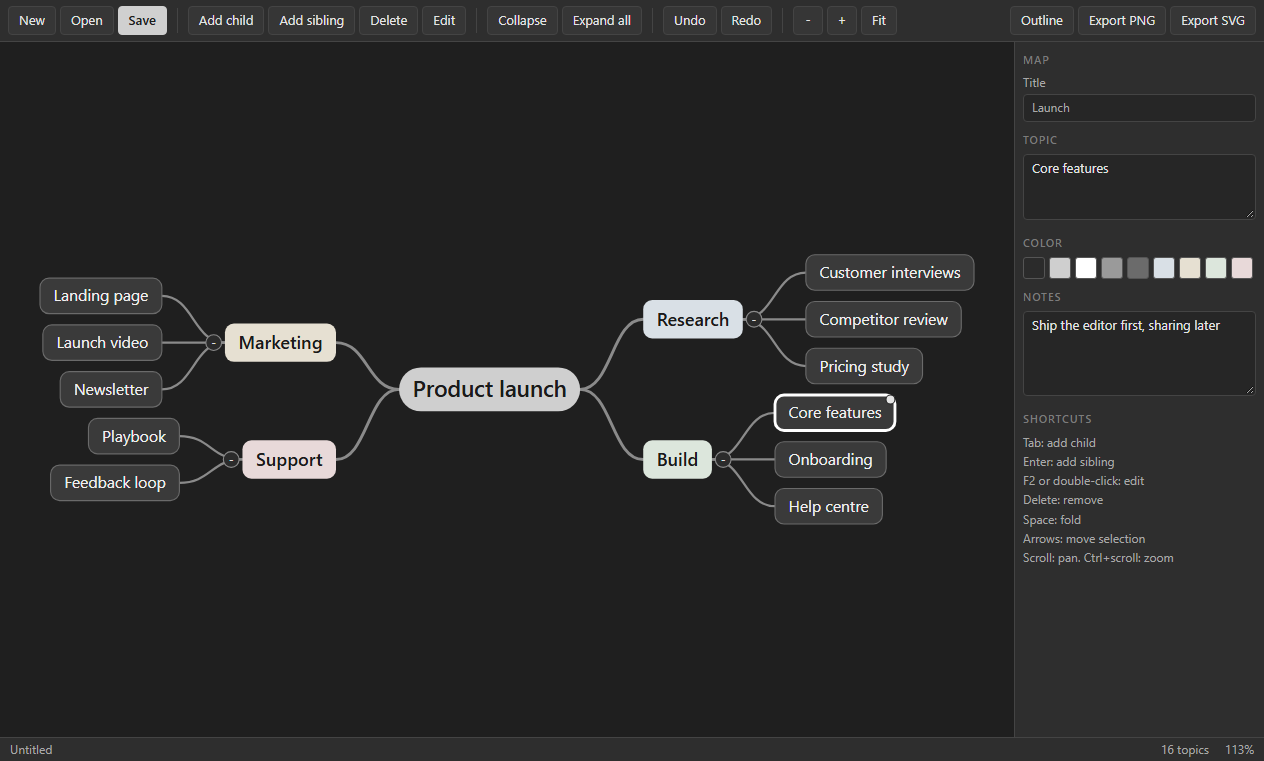
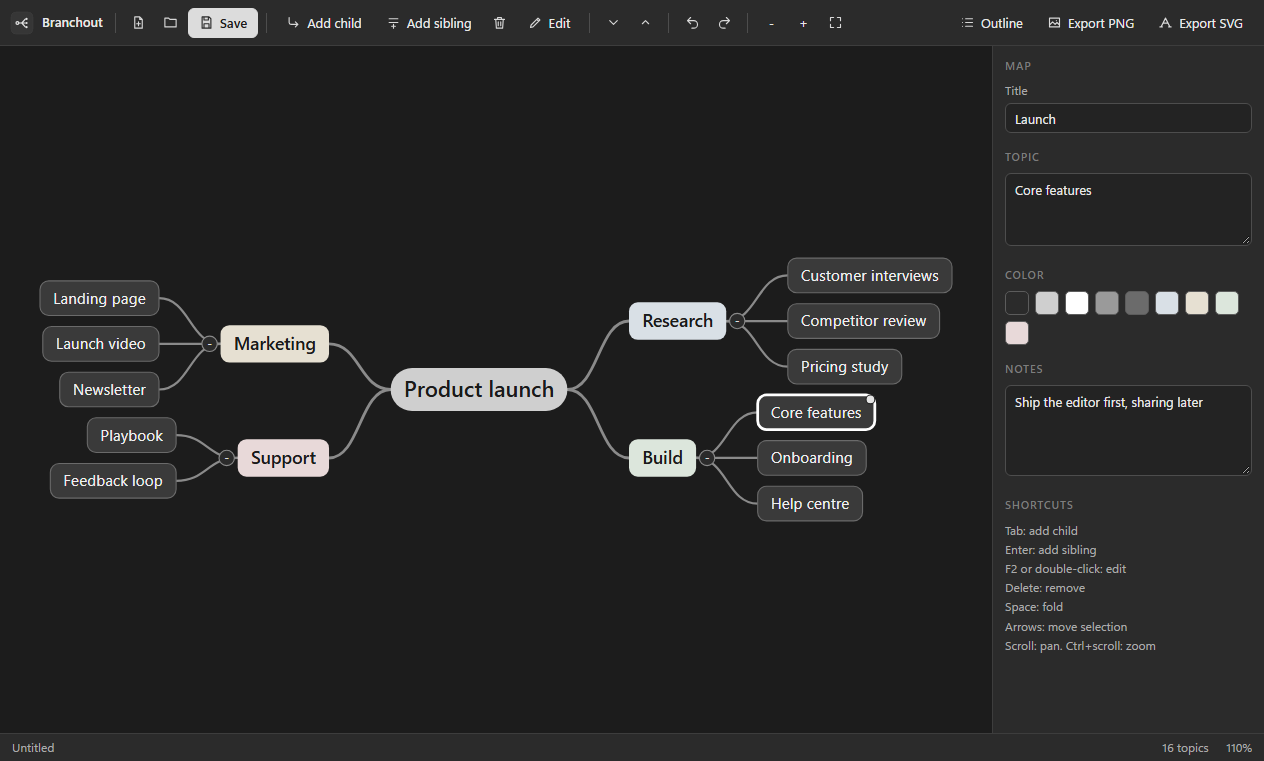
Branchout 1.0.2: refreshed interface
Refreshed interface: line icons on every toolbar button, the app mark in the top bar, consistent control sizes and spacing, tidier side panels, and a toolbar that adapts to smaller windows. Also includes layout fixes and a fuller guide on the project page.

diff --git a/renderer/lookout.css b/renderer/lookout.css
@@ -1,62 +1,119 @@
-/* Lookout gray UI kit: flat, no glow, no gradients, no hue. */
+/* Lookout gray UI kit v2: flat, calm, no hue. Shared by every Lookout app. */
 :root{
-  --bg:#262626; --bg-2:#2e2e2e; --bg-3:#363636; --line:#444; --line-2:#555;
-  --text:#e4e4e4; --text-2:#a8a8a8; --text-3:#7c7c7c;
-  --accent:#d0d0d0; --accent-ink:#1c1c1c; --focus:#9a9a9a;
-  --radius:4px; --font:"Segoe UI",system-ui,-apple-system,sans-serif; --mono:Consolas,"Cascadia Mono",monospace;
+  --bg:#232323; --bg-2:#2b2b2b; --bg-3:#333333; --bg-4:#3b3b3b; --stage:#1c1c1c;
+  --line:#3d3d3d; --line-2:#4d4d4d; --line-3:#5c5c5c;
+  --text:#e8e8e8; --text-2:#ababab; --text-3:#7d7d7d;
+  --accent:#dcdcdc; --accent-ink:#1b1b1b; --focus:#a0a0a0;
+  --radius:6px; --h:30px;
+  --font:"Segoe UI Variable Text","Segoe UI",system-ui,-apple-system,sans-serif; --mono:Consolas,"Cascadia Mono",monospace;
 }
 *{box-sizing:border-box;margin:0;padding:0}
 html,body{height:100%;background:var(--bg);color:var(--text);font:13px/1.45 var(--font);overflow:hidden;user-select:none;-webkit-font-smoothing:antialiased}
 button,input,select,textarea{font:inherit;color:inherit}
 .app{display:grid;grid-template-rows:auto 1fr auto;height:100vh}
-.toolbar{display:flex;align-items:center;gap:4px;padding:6px 8px;background:var(--bg-2);border-bottom:1px solid var(--line);flex-wrap:wrap}
-.toolbar .sep{width:1px;align-self:stretch;background:var(--line);margin:2px 6px}
-.toolbar .grow{flex:1}
-.btn{background:var(--bg-3);border:1px solid var(--line);border-radius:var(--radius);padding:4px 10px;cursor:pointer;white-space:nowrap}
-.btn:hover{background:#404040;border-color:var(--line-2)}
+
+/* ---------- toolbar ---------- */
+.toolbar{display:flex;align-items:center;gap:2px;padding:7px 10px;min-height:46px;background:var(--bg-2);border-bottom:1px solid var(--line);flex-wrap:nowrap;overflow-x:auto;overflow-y:hidden;scrollbar-width:none}
+.toolbar::-webkit-scrollbar{height:0}
+.toolbar>*{flex-shrink:0}
+.toolbar .sep{width:1px;height:20px;align-self:center;background:var(--line-2);margin:0 6px}
+.toolbar .grow{flex:1 1 auto;min-width:8px}
+.toolbar input[type=text],.toolbar input[type=search]{width:170px}
+.brand{display:flex;align-items:center;gap:8px;padding-right:6px;margin-right:4px;font-weight:600;font-size:13px;color:var(--text)}
+.brand img{width:24px;height:24px;border-radius:6px;display:block}
+.brand+.sep{margin-left:0}
+
+/* ---------- buttons ---------- */
+.btn{display:inline-flex;align-items:center;justify-content:center;gap:6px;height:var(--h);padding:0 10px;background:var(--bg-3);border:1px solid var(--line);border-radius:var(--radius);cursor:pointer;white-space:nowrap;line-height:1;transition:background .08s,border-color .08s}
+.btn:hover{background:var(--bg-4);border-color:var(--line-2)}
 .btn:active{background:#2a2a2a}
-.btn:focus-visible,input:focus-visible,select:focus-visible,textarea:focus-visible,[tabindex]:focus-visible{outline:1px solid var(--focus);outline-offset:1px}
+.btn:focus-visible,input:focus-visible,select:focus-visible,textarea:focus-visible,[tabindex]:focus-visible{outline:2px solid var(--focus);outline-offset:1px}
 .btn.primary{background:var(--accent);color:var(--accent-ink);border-color:var(--accent);font-weight:600}
-.btn.primary:hover{background:#e0e0e0}
-.btn.on{background:#4a4a4a;border-color:var(--line-2)}
-.btn[disabled]{opacity:.4;pointer-events:none}
-.btn.icon{padding:4px 8px;min-width:30px;text-align:center}
-input[type=text],input[type=number],input[type=search],select,textarea{background:var(--bg);border:1px solid var(--line);border-radius:var(--radius);padding:4px 8px;user-select:text}
-input[type=range]{accent-color:#bdbdbd}
-input[type=color]{border:1px solid var(--line);background:var(--bg);width:28px;height:24px;padding:1px;border-radius:var(--radius)}
-label.field{display:flex;flex-direction:column;gap:3px;color:var(--text-2);font-size:12px}
-.main{display:flex;min-height:0}
-.sidebar{width:220px;background:var(--bg-2);border-right:1px solid var(--line);overflow:auto;padding:8px;flex-shrink:0}
-.sidebar.right{border-right:0;border-left:1px solid var(--line);width:250px}
-.sidebar h3,.panel-title{font-size:11px;text-transform:uppercase;letter-spacing:.08em;color:var(--text-3);margin:10px 0 6px;font-weight:600}
+.btn.primary:hover{background:#ececec;border-color:#ececec}
+.btn.on{background:#4a4a4a;border-color:var(--line-3);box-shadow:inset 0 0 0 1px #6a6a6a}
+.btn[disabled]{opacity:.38;pointer-events:none}
+.btn.icon{padding:0;width:var(--h);min-width:var(--h)}
+.btn .ic{width:15px;height:15px;flex-shrink:0;display:block;opacity:.92}
+.toolbar .btn:not(.primary):not(.on){background:transparent;border-color:transparent}
+.toolbar .btn:not(.primary):not(.on):hover{background:var(--bg-4);border-color:var(--line-2)}
+
+.toolbar.c1 .btn.minor:not(.primary):has(> svg.ic),.toolbar.c2 .btn:not(.primary):has(> svg.ic),.toolbar.c3 .btn:has(> svg.ic){font-size:0;gap:0;width:var(--h);padding:0}
+.toolbar.c2 .brand span{display:none}
+.toolbar.c2 input[type=text],.toolbar.c2 input[type=search]{width:120px}
+
+/* ---------- fields ---------- */
+input[type=text],input[type=number],input[type=search],input[type=date],select,textarea{background:var(--bg);border:1px solid var(--line-2);border-radius:var(--radius);padding:0 9px;height:var(--h);user-select:text;min-width:0}
+textarea{height:auto;padding:7px 9px;resize:vertical;line-height:1.45}
+select{padding-right:6px;cursor:pointer}
+input:hover,select:hover,textarea:hover{border-color:var(--line-3)}
+input[type=range]{accent-color:#c8c8c8;height:var(--h)}
+input[type=checkbox]{accent-color:#c8c8c8;width:15px;height:15px;cursor:pointer}
+input[type=color]{border:1px solid var(--line-2);background:var(--bg);width:30px;height:var(--h);padding:2px;border-radius:var(--radius)}
+label.field{display:flex;flex-direction:column;gap:4px;color:var(--text-2);font-size:12px}
+label.field>input,label.field>select,label.field>textarea{width:100%;color:var(--text);font-size:13px}
+
+/* ---------- layout ---------- */
+.main{display:flex;min-height:0;min-width:0}
+.sidebar{width:228px;background:var(--bg-2);border-right:1px solid var(--line);overflow:auto;padding:10px 12px 14px;flex-shrink:0}
+.sidebar.right{border-right:0;border-left:1px solid var(--line);width:272px}
+.sidebar h3,.panel-title{font-size:11px;text-transform:uppercase;letter-spacing:.08em;color:var(--text-3);margin:16px 0 8px;font-weight:600}
 .sidebar h3:first-child{margin-top:2px}
-.stage{flex:1;min-width:0;min-height:0;position:relative;background:#1f1f1f;overflow:auto}
-.status{display:flex;gap:16px;align-items:center;padding:3px 10px;background:var(--bg-2);border-top:1px solid var(--line);color:var(--text-2);font-size:12px}
+.sidebar input[type=text],.sidebar input[type=search],.sidebar select,.sidebar textarea{width:100%}
+.sidebar .row{flex-wrap:wrap}
+.sidebar .row>.btn{flex:1 1 auto}
+.sidebar .row>label.field{flex:1 1 0;min-width:0}
+.sidebar label.field{margin-bottom:10px}
+.sidebar .btn{width:auto}
+.sidebar>.btn{width:100%;margin-bottom:6px}
+.stage{flex:1;min-width:0;min-height:0;position:relative;background:var(--stage);overflow:auto}
+.status{display:flex;gap:18px;align-items:center;height:28px;padding:0 12px;background:var(--bg-2);border-top:1px solid var(--line);color:var(--text-2);font-size:12px;white-space:nowrap;overflow:hidden}
 .status .grow{flex:1}
 .list{display:flex;flex-direction:column;gap:2px}
-.list .item{padding:5px 8px;border-radius:var(--radius);cursor:pointer;border:1px solid transparent;display:flex;gap:6px;align-items:center}
+.list .item{padding:6px 8px;border-radius:var(--radius);cursor:pointer;border:1px solid transparent;display:flex;gap:6px;align-items:center;min-height:30px}
 .list .item:hover{background:var(--bg-3)}
-.list .item.sel{background:#444;border-color:var(--line-2)}
+.list .item.sel{background:var(--bg-4);border-color:var(--line-2)}
 .row{display:flex;gap:6px;align-items:center}
+.grow{flex:1 1 auto;min-width:0}
+.brow{display:grid;grid-template-columns:1fr 1fr;gap:6px;margin-bottom:6px}
+.brow>.btn{justify-content:flex-start}
+.frow{display:flex;align-items:center;gap:8px;margin-bottom:8px;color:var(--text-2)}
+.frow>input[type=text],.frow>input[type=number]{flex:1;color:var(--text)}
+.frow>span:first-child{min-width:44px}
+.frow>select{flex:1;min-width:0}
+.sidebar input[type=range]{width:100%}
+.sidebar .swatches{margin-bottom:10px}
+.list .item .btn{height:24px!important;width:26px!important;padding:0!important;font-size:0!important;gap:0;background:transparent;border-color:transparent;opacity:.55}
+.list .item:hover .btn,.list .item.sel .btn{opacity:1}
+.list .item .btn:hover{background:var(--bg-4);border-color:var(--line-2)}
 .col{display:flex;flex-direction:column;gap:6px}
 .muted{color:var(--text-2)}
-.empty{position:absolute;inset:0;display:flex;flex-direction:column;align-items:center;justify-content:center;gap:10px;color:var(--text-3);text-align:center;padding:20px}
-.empty .big{font-size:18px;color:var(--text-2)}
-.modal-back{position:fixed;inset:0;background:rgba(0,0,0,.55);display:flex;align-items:center;justify-content:center;z-index:50}
-.modal{background:var(--bg-2);border:1px solid var(--line-2);border-radius:6px;min-width:340px;max-width:80vw;max-height:85vh;overflow:auto;padding:16px;display:flex;flex-direction:column;gap:12px}
-.modal h2{font-size:15px;font-weight:600}
-.toast{position:fixed;left:50%;bottom:34px;transform:translateX(-50%);background:var(--bg-3);border:1px solid var(--line-2);padding:7px 14px;border-radius:var(--radius);z-index:60}
-.progress{height:6px;background:var(--bg);border:1px solid var(--line);border-radius:3px;overflow:hidden}
-.progress>i{display:block;height:100%;background:var(--accent);width:0}
-table.grid{border-collapse:collapse;width:100%}
-table.grid th,table.grid td{border:1px solid var(--line);padding:4px 8px;text-align:left}
-table.grid th{background:var(--bg-2);color:var(--text-2);font-weight:600}
-::-webkit-scrollbar{width:11px;height:11px}
-::-webkit-scrollbar-thumb{background:#4a4a4a;border:2px solid var(--bg);border-radius:6px}
-::-webkit-scrollbar-track{background:var(--bg)}
-.swatches{display:flex;flex-wrap:wrap;gap:4px}
-.swatches button{width:22px;height:22px;border:1px solid var(--line-2);border-radius:3px;cursor:pointer;padding:0}
-.swatches button.on{outline:2px solid var(--accent);outline-offset:1px}
-.progress>div{display:block;height:100%;background:var(--accent)}
-table.grid tr.sel td{background:#3a3a3a}
+.empty{position:absolute;inset:0;display:flex;flex-direction:column;align-items:center;justify-content:center;gap:12px;color:var(--text-3);text-align:center;padding:24px}
+.empty .big{font-size:18px;color:var(--text-2);font-weight:600}
+
+/* ---------- overlays ---------- */
+.modal-back{position:fixed;inset:0;background:rgba(0,0,0,.6);display:flex;align-items:center;justify-content:center;z-index:50}
+.modal{background:var(--bg-2);border:1px solid var(--line-2);border-radius:10px;min-width:360px;max-width:80vw;max-height:85vh;overflow:auto;padding:20px;display:flex;flex-direction:column;gap:14px;box-shadow:0 18px 50px rgba(0,0,0,.5)}
+.modal h2{font-size:16px;font-weight:600}
+.toast{position:fixed;left:50%;bottom:40px;transform:translateX(-50%);background:var(--bg-4);border:1px solid var(--line-3);padding:9px 16px;border-radius:8px;z-index:60;box-shadow:0 8px 24px rgba(0,0,0,.4)}
+.progress{height:6px;background:var(--bg);border:1px solid var(--line);border-radius:4px;overflow:hidden}
+.progress>i,.progress>div{display:block;height:100%;background:var(--accent);width:0}
+
+/* ---------- tables ---------- */
+table.grid{border-collapse:separate;border-spacing:0;width:100%}
+table.grid th,table.grid td{border-bottom:1px solid var(--line);padding:0 12px;height:38px;text-align:left;vertical-align:middle}
+table.grid th{background:var(--bg-2);color:var(--text-2);font-weight:600;font-size:12px;position:sticky;top:0;z-index:1;height:34px}
+table.grid tbody tr:hover td{background:#262626}
+table.grid tr.sel td{background:#353535}
 table.grid tbody tr{cursor:default}
+table.grid td .btn{height:26px;margin-left:8px;vertical-align:middle}
+table.grid td{white-space:nowrap}
+
+/* ---------- misc ---------- */
+::-webkit-scrollbar{width:11px;height:11px}
+::-webkit-scrollbar-thumb{background:#474747;border:3px solid transparent;background-clip:padding-box;border-radius:8px}
+::-webkit-scrollbar-thumb:hover{background:#5a5a5a;background-clip:padding-box;border:3px solid transparent}
+::-webkit-scrollbar-track,::-webkit-scrollbar-corner{background:transparent}
+.swatches{display:flex;flex-wrap:wrap;gap:6px}
+.swatches button{width:24px;height:24px;border:1px solid var(--line-3);border-radius:5px;cursor:pointer;padding:0}
+.swatches button.on{outline:2px solid var(--accent);outline-offset:2px}
+kbd{font-family:var(--mono);font-size:11px;background:var(--bg-3);border:1px solid var(--line-2);border-bottom-width:2px;border-radius:4px;padding:0 5px}

diff --git a/renderer/kit.js b/renderer/kit.js
@@ -1,0 +1,137 @@
+// Lookout UI kit: adds the app mark to the toolbar and monochrome line icons to buttons.
+// Purely visual. Buttons keep their text, so nothing else changes.
+(function () {
+  'use strict';
+  const NS = 'http://www.w3.org/2000/svg';
+  const P = {
+    plus: 'M12 5v14M5 12h14',
+    file: 'M14 3H6v18h12V7zM14 3v4h4M12 11v6M9 14h6',
+    folder: 'M3 7V5h6l2 2h10v12H3z',
+    save: 'M5 3h11l3 3v15H5zM8 3v5h7V3M8 21v-7h8v7',
+    saveas: 'M5 3h11l3 3v6M5 3v18h7M8 3v5h7V3M15 21l6-6-2-2-6 6v2z',
+    undo: 'M9 14L4 9l5-5M4 9h10a6 6 0 010 12h-3',
+    redo: 'M15 14l5-5-5-5M20 9H10a6 6 0 000 12h3',
+    trash: 'M4 7h16M10 11v6M14 11v6M6 7l1 14h10l1-14M9 7V4h6v3',
+    copy: 'M9 9h11v11H9zM5 15H4V4h11v1',
+    paste: 'M9 4h6v3H9zM8 5H5v16h14V5h-3',
+    dup: 'M8 8h12v12H8zM4 16V4h12M14 11v6M11 14h6',
+    download: 'M12 4v11M7 10l5 5 5-5M5 20h14',
+    fit: 'M4 9V4h5M15 4h5v5M20 15v5h-5M9 20H4v-5',
+    play: 'M7 4l13 8-13 8z',
+    stop: 'M6 6h12v12H6z',
+    pause: 'M7 5h3v14H7zM14 5h3v14h-3z',
+    rec: 'M12 5a7 7 0 100 14 7 7 0 000-14z',
+    scissors: 'M6 9a3 3 0 100-6 3 3 0 000 6zM6 21a3 3 0 100-6 3 3 0 000 6zM8.2 7.8L20 19M8.2 16.2L20 5',
+    pointer: 'M5 3l14 7-6 2-2 6z',
+    hand: 'M8 13V6a1.5 1.5 0 013 0v5M11 11V4.5a1.5 1.5 0 013 0V11M14 11V6a1.5 1.5 0 013 0v8a7 7 0 01-7 7 6 6 0 01-5-3l-2.5-4.5a1.5 1.5 0 012.6-1.5L8 15',
+    connector: 'M5 19L19 5M13 5h6v6',
+    frame: 'M7 3v18M17 3v18M3 7h18M3 17h18',
+    rect: 'M4 6h16v12H4z',
+    ellipse: 'M12 5c4.4 0 8 3.1 8 7s-3.6 7-8 7-8-3.1-8-7 3.6-7 8-7z',
+    line: 'M5 19L19 5',
+    text: 'M5 6V4h14v2M12 4v16M9 20h6',
+    highlight: 'M14 4l6 6-8 8H6v-6zM4 21h16',
+    pen: 'M4 20l4-1 11-11-3-3L5 16zM14 7l3 3',
+    redact: 'M4 8h16v8H4z',
+    sign: 'M3 17c3-6 5-9 7-9 3 0-2 9 1 9 2 0 3-3 5-3s1 3 5 3M3 21h18',
+    eraser: 'M8 20l-4-4 10-10 6 6-10 8zM12 20h8',
+    search: 'M11 4a7 7 0 100 14 7 7 0 000-14zM16 16l5 5',
+    list: 'M9 6h11M9 12h11M9 18h11M4 6h.01M4 12h.01M4 18h.01',
+    child: 'M5 4v8a3 3 0 003 3h11M15 11l4 4-4 4',
+    sibling: 'M5 6h14M5 12h14M12 15v6M9 18h6',
+    collapse: 'M6 9l6 6 6-6',
+    expand: 'M7 14l5-5 5 5',
+    calendar: 'M4 6h16v14H4zM4 10h16M8 3v5M16 3v5',
+    diamond: 'M12 3l9 9-9 9-9-9z',
+    up: 'M12 19V5M6 11l6-6 6 6',
+    down: 'M12 5v14M6 13l6 6 6-6',
+    refresh: 'M20 11a8 8 0 10-2.3 5.7M20 4v7h-7',
+    check: 'M4 12l5 5L20 6',
+    convert: 'M4 8h13M13 4l4 4-4 4M20 16H7M11 12l-4 4 4 4',
+    eye: 'M2 12s4-7 10-7 10 7 10 7-4 7-10 7S2 12 2 12zM12 9a3 3 0 100 6 3 3 0 000-6z',
+    info: 'M12 3a9 9 0 100 18 9 9 0 000-18zM12 11v6M12 7.5h.01',
+    front: 'M8 8h12v12H8zM4 4h10v3M4 4v10h3',
+    back: 'M4 4h12v12H4zM20 8v12H8v-4',
+    merge: 'M6 3v6a6 6 0 006 6h6M15 12l3 3-3 3M6 21v-4',
+    rotl: 'M4 10a8 8 0 112 6M4 4v6h6',
+    rotr: 'M20 10a8 8 0 10-2 6M20 4v6h-6',
+    blank: 'M6 3h12v18H6z',
+    extract: 'M14 3H6v18h12V7zM14 3v4h4M12 10v7M9 14l3 3 3-3',
+    mic: 'M12 3a3 3 0 00-3 3v6a3 3 0 006 0V6a3 3 0 00-3-3zM6 11a6 6 0 0012 0M12 17v4',
+    clear: 'M6 6l12 12M18 6L6 18',
+    gaps: 'M3 6v12M21 6v12M7 12h10M10 9l-3 3 3 3M14 9l3 3-3 3',
+    title: 'M4 5h16v14H4zM8 9h8M12 9v7',
+    dashed: 'M4 12h3M10 12h4M17 12h3',
+    arrow: 'M4 12h15M14 7l5 5-5 5',
+    elbow: 'M4 6h8v12h8',
+    label: 'M3 12l6-7h12v14H9zM8 12h.01',
+    image: 'M4 5h16v14H4zM4 16l5-5 4 4 3-3 4 4M15 9h.01',
+    vector: 'M5 19L12 5l7 14M8 13h8M3 19h4M17 19h4',
+    table: 'M4 5h16v14H4zM4 10h16M4 15h16M10 5v14',
+    lock: 'M6 11h12v9H6zM8 11V8a4 4 0 018 0v3',
+    unlock: 'M6 11h12v9H6zM8 11V8a4 4 0 017.5-2',
+    eyeoff: 'M3 3l18 18M10.6 6.1A10 10 0 0112 6c6 0 10 6 10 6a17 17 0 01-3 3.6M6.6 6.6C3.8 8.3 2 12 2 12s4 7 10 7a9.7 9.7 0 004.4-1',
+  };
+  const MAP = {
+    'New': 'file', 'Open': 'folder', 'Open project': 'folder', 'Open file': 'folder', 'Save': 'save', 'Save project': 'save', 'Save as': 'saveas',
+    'Undo': 'undo', 'Redo': 'redo', 'Delete': 'trash', 'Delete clip': 'trash', 'Remove selected': 'trash', 'Copy': 'copy', 'Paste': 'paste', 'Duplicate': 'dup',
+    'Export PNG': 'image', 'Export SVG': 'vector', 'Export CSV': 'table', 'Export': 'download', 'Export page as PNG': 'download', 'Extract all text': 'text',
+    'Fit': 'fit', 'Play': 'play', 'Stop': 'stop', 'Pause': 'pause', 'Resume': 'play', 'Record': 'rec', 'Split': 'scissors', 'Split here': 'scissors',
+    'Select': 'pointer', 'Move': 'pointer', 'Hand': 'hand', 'Connector': 'connector', 'Frame': 'frame', 'Rectangle': 'rect', 'Box': 'rect', 'Ellipse': 'ellipse', 'Line': 'line', 'Text': 'text',
+    'Highlight': 'highlight', 'Pen': 'pen', 'Redact': 'redact', 'Sign': 'sign', 'Erase': 'eraser', 'Preview': 'eye', 'Outline': 'list',
+    'Add child': 'child', 'Add sibling': 'sibling', 'Edit': 'pen', 'Collapse': 'collapse', 'Expand all': 'expand', 'Today': 'calendar',
+    'Add task': 'plus', 'Add milestone': 'diamond', 'Move up': 'up', 'Move down': 'down', 'Up': 'up', 'Down': 'down',
+    'Import media': 'plus', 'Add files': 'plus', 'Output folder': 'folder', 'Convert all': 'convert', 'Clear finished': 'clear', 'Show': 'folder', 'Show in folder': 'folder',
+    'Check file': 'check', 'Repair to new file': 'download', 'Refresh sources': 'refresh', 'Start recording': 'rec', 'Stop and review': 'stop', 'New recording': 'rec',
+    'Check for updates': 'refresh', 'Info': 'info', 'Merge': 'merge', 'Rotate L': 'rotl', 'Rotate R': 'rotr', 'Blank': 'blank', 'Extract': 'extract',
+    'Front': 'front', 'Back': 'back', 'Close gaps': 'gaps', 'Title text': 'title', 'Dashed': 'dashed', 'Arrow on/off': 'arrow', 'Straight / Elbow': 'elbow', 'Edit label': 'label',
+    'Cut': 'scissors', 'Trim to selection': 'fit', 'Locate missing files': 'search',
+  };
+  const LMAP = { 'Hide': 'eye', 'Show': 'eyeoff', 'Lock': 'unlock', 'Unlock': 'lock' };
+  function icon(name) {
+    const s = document.createElementNS(NS, 'svg');
+    s.setAttribute('viewBox', '0 0 24 24'); s.setAttribute('class', 'ic'); s.setAttribute('aria-hidden', 'true');
+    s.setAttribute('fill', 'none'); s.setAttribute('stroke', 'currentColor'); s.setAttribute('stroke-width', '1.8');
+    s.setAttribute('stroke-linecap', 'round'); s.setAttribute('stroke-linejoin', 'round');
+    const p = document.createElementNS(NS, 'path'); p.setAttribute('d', P[name]); s.append(p);
+    return s;
+  }
+  function decorate(b) {
+    if (b.tagName !== 'BUTTON' || !b.classList.contains('btn')) return;
+    const label = (b.textContent || '').trim();
+    const name = (b.closest('.list') && LMAP[label]) || MAP[label];
+    const cur = b.querySelector(':scope > svg.ic');
+    if (cur && cur.dataset.for === label) return;
+    if (cur) cur.remove();
+    if (!name) return;
+    const s = icon(name); s.dataset.for = label; b.prepend(s);
+    if (!b.title) b.title = label;
+  }
+  function brand(bar) {
+    if (!bar || bar.querySelector(':scope > .brand') || (document.title && (bar.textContent || '').includes(document.title))) return;
+    const name = document.title || '';
+    const d = document.createElement('div'); d.className = 'brand';
+    const img = document.createElement('img'); img.src = 'brand.svg'; img.alt = '';
+    const t = document.createElement('span'); t.textContent = name;
+    d.append(img, t);
+    const sep = document.createElement('span'); sep.className = 'sep';
+    bar.prepend(d, sep);
+  }
+  const MINOR = new Set(['New', 'Open', 'Undo', 'Redo', 'Copy', 'Paste', 'Duplicate', 'Delete', 'Front', 'Back', 'Fit', 'Hand', 'Merge', 'Move up', 'Move down', 'Today', 'Cut', 'Dashed', 'Arrow on/off', 'Straight / Elbow', 'Edit label', 'Output folder', 'Remove selected', 'Clear finished', 'Refresh sources', 'Stop', 'Collapse', 'Expand all', 'Select', 'Move']);
+  function fitBar(bar) {
+    bar.classList.remove('c1', 'c2', 'c3');
+    bar.querySelectorAll(':scope > .btn').forEach((b) => b.classList.toggle('minor', MINOR.has((b.textContent || '').trim())));
+    for (const c of ['c1', 'c2', 'c3']) { if (bar.scrollWidth <= bar.clientWidth + 1) break; bar.classList.add(c); }
+  }
+  window.addEventListener('resize', () => { const bar = document.querySelector('.app > .toolbar'); if (bar) fitBar(bar); });
+  let queued = false;
+  function sweep() {
+    queued = false;
+    document.querySelectorAll('.btn').forEach(decorate);
+    const bar = document.querySelector('.app > .toolbar');
+    if (bar && bar.children.length) { brand(bar); fitBar(bar); }
+  }
+  const mo = new MutationObserver(() => { if (!queued) { queued = true; requestAnimationFrame(sweep); } });
+  function start() { mo.observe(document.body, { childList: true, subtree: true, characterData: true }); sweep(); }
+  if (document.readyState === 'loading') document.addEventListener('DOMContentLoaded', start); else start();
+})();

diff --git a/renderer/index.html b/renderer/index.html
@@ -10,6 +10,7 @@
 </head>
 <body>
 <div class="app" id="app"></div>
+<script src="kit.js"></script>
 <script src="app.js"></script>
 </body>
 </html>

diff --git a/README.md b/README.md
@@ -1,6 +1,6 @@
 <p align="center"><img src="screenshots/banner.png" alt="Branchout" width="100%"></p>
 
-<p align="center"><b>Mind maps and outlines</b><br>Version 1.0.1 for Windows · Free · Offline · No account</p>
+<p align="center"><b>Mind maps and outlines</b><br>Version 1.0.2 for Windows · Free · Offline · No account</p>
 
 <p align="center"><a href="https://github.com/plawanpawin-byte/branchout/releases/latest"><b>Download Branchout</b></a> · <a href="https://github.com/plawanpawin-byte/Lookout">All Lookout apps</a></p>
 
@@ -11,6 +11,12 @@ Branchout is a mind-mapping app. Start with one idea in the centre, branch out w
 **Made for:** Planning a project, studying for an exam, preparing a talk or sorting out your own thoughts.
 
 ![Branchout](screenshots/01-mind-map.png)
+
+**On this page:** [Screenshots](#see-it-in-action) · [Interface](#the-interface) · [Features](#everything-it-can-do) · [How to use it](#how-to-use-it) · [Shortcuts](#keyboard-shortcuts) · [Formats](#files-and-formats) · [Privacy](#private-by-design) · [Install](#install) · [Questions](#questions)
+
+## What is new in 1.0.2
+
+A refreshed interface: every toolbar button now has a clear line icon, the app's mark sits at the top left, controls share one height and spacing, panels line up in tidy grids, and the toolbar keeps every button reachable on smaller windows by switching less important buttons to icons.
 
 ## See it in action
 
@@ -43,6 +49,12 @@ The map exported as a high-resolution image, ready for a document or a slide.
 ![Outline output](screenshots/05-outline-output.png)
 
 The same ideas as an indented list you can paste into an email or a document.
+
+## The interface
+
+- **Top bar:** file buttons, Add child, Add sibling, Delete and Edit, fold controls, undo and redo, zoom, Outline and Export PNG / SVG.
+- **Canvas:** the map itself; drag to pan, Ctrl + scroll to zoom, click a topic to select it.
+- **Right panel:** map title, topic text, colour, notes, and a reminder of the keyboard shortcuts.
 
 ## Everything it can do
 
@@ -121,5 +133,15 @@ Not yet. You can type or paste your topics in as you go.
 ## About Lookout
 
 Branchout belongs to the **[Lookout](https://github.com/plawanpawin-byte/Lookout)** family: ten small, private Windows apps for documents and media, all with the same calm grey look and the same promise that your files stay yours. Install and update them together with the [Lookout launcher](https://github.com/plawanpawin-byte/lookout-launcher).
+
+- **[Pageout](https://github.com/plawanpawin-byte/pageout)**: read, annotate and sign pdfs
+- **[Chartout](https://github.com/plawanpawin-byte/chartout)**: flowcharts and diagrams
+- **[Planout](https://github.com/plawanpawin-byte/planout)**: plans and gantt timelines
+- **[Frameout](https://github.com/plawanpawin-byte/frameout)**: screen design and prototypes
+- **[Cutout](https://github.com/plawanpawin-byte/cutout)**: video editing on a timeline
+- **[Shiftout](https://github.com/plawanpawin-byte/shiftout)**: convert and compress media
+- **[Castout](https://github.com/plawanpawin-byte/castout)**: record your screen
+- **[Mendout](https://github.com/plawanpawin-byte/mendout)**: repair damaged media
+- **[Tuneout](https://github.com/plawanpawin-byte/tuneout)**: record and edit audio
 
 Released under the MIT License.
